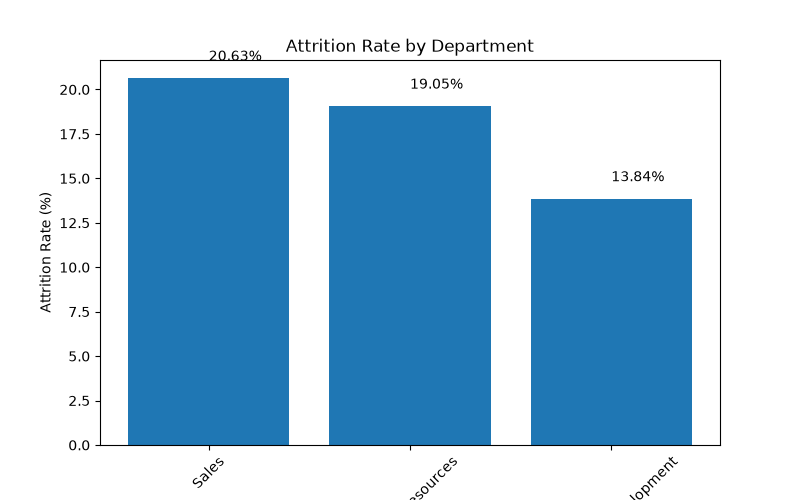
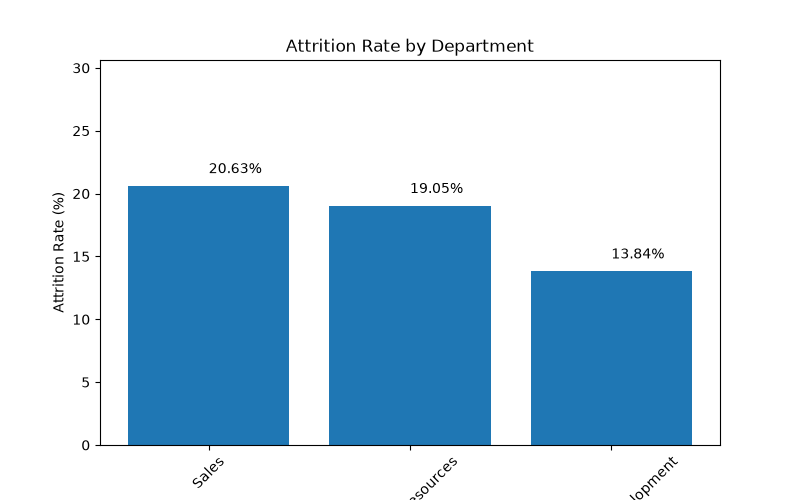
Add overtime attrition analysis and visualization

diff --git a/src/overtime_analysis.py b/src/overtime_analysis.py
@@ -1,0 +1,43 @@
+import pandas as pd
+import matplotlib.pyplot as plt
+df = pd.read_csv("data/raw/employee_attrition.csv")
+overtime_count=df["OverTime"].value_counts()
+print("=" * 70)
+print("Overtime Summary")
+print("=" * 70)
+print(f"Employees with Overtime   : {overtime_count['Yes']}")
+print(f"Employees without Overtime : {overtime_count['No']}")
+left_overtime = df[(df["OverTime"] == "Yes") & (df["Attrition"] == "Yes")]
+left_no_overtime = df[(df["Attrition"] == "Yes") & (df["OverTime"] == "No")]
+
+overtime_attrition_rate = (len(left_overtime) / overtime_count["Yes"]) * 100
+no_overtime_attrition_rate = (len(left_no_overtime) / overtime_count["No"]) * 100
+print("=" * 70)
+print("Attrition Rate by Overtime")
+print("=" * 70)
+
+print(f"{'Overtime':<20} : {overtime_attrition_rate:.2f}%")
+print(f"{'No Overtime':<20} : {no_overtime_attrition_rate:.2f}%")
+print("=" * 70)
+plt.figure(figsize=(7,5))
+overtime=["Overtime", "No Overtime"]
+rate=[overtime_attrition_rate, no_overtime_attrition_rate]
+bars = plt.bar(overtime, rate)
+plt.title("Attrition Rate by Overtime")
+plt.xlabel("Overtime Status")
+plt.ylabel("Attrition Rate (%)")
+for bar in bars:
+    height=bar.get_height()
+    x=bar.get_x() + bar.get_width() / 2
+    y=height + 1
+    plt.text(x, y, f"{height:.2f}%")
+plt.xticks(rotation=0)
+plt.xticks(rotation=0)
+
+plt.ylim(0, max(rate) + 10)
+
+
+
+plt.savefig("images/overtime_attrition_rate.png")
+
+plt.show()    

diff --git a/src/department_analysis.py b/src/department_analysis.py
@@ -33,6 +33,7 @@ for bar in bars:
     y=height+1
     plt.text(x, y, f"{height:.2f}%",)
 plt.xticks(rotation=45)
+plt.ylim(0, max(attrition_rate.values) + 10)        
 plt.savefig("images/attrition_rate_by_department.png", )
 
 plt.show()
